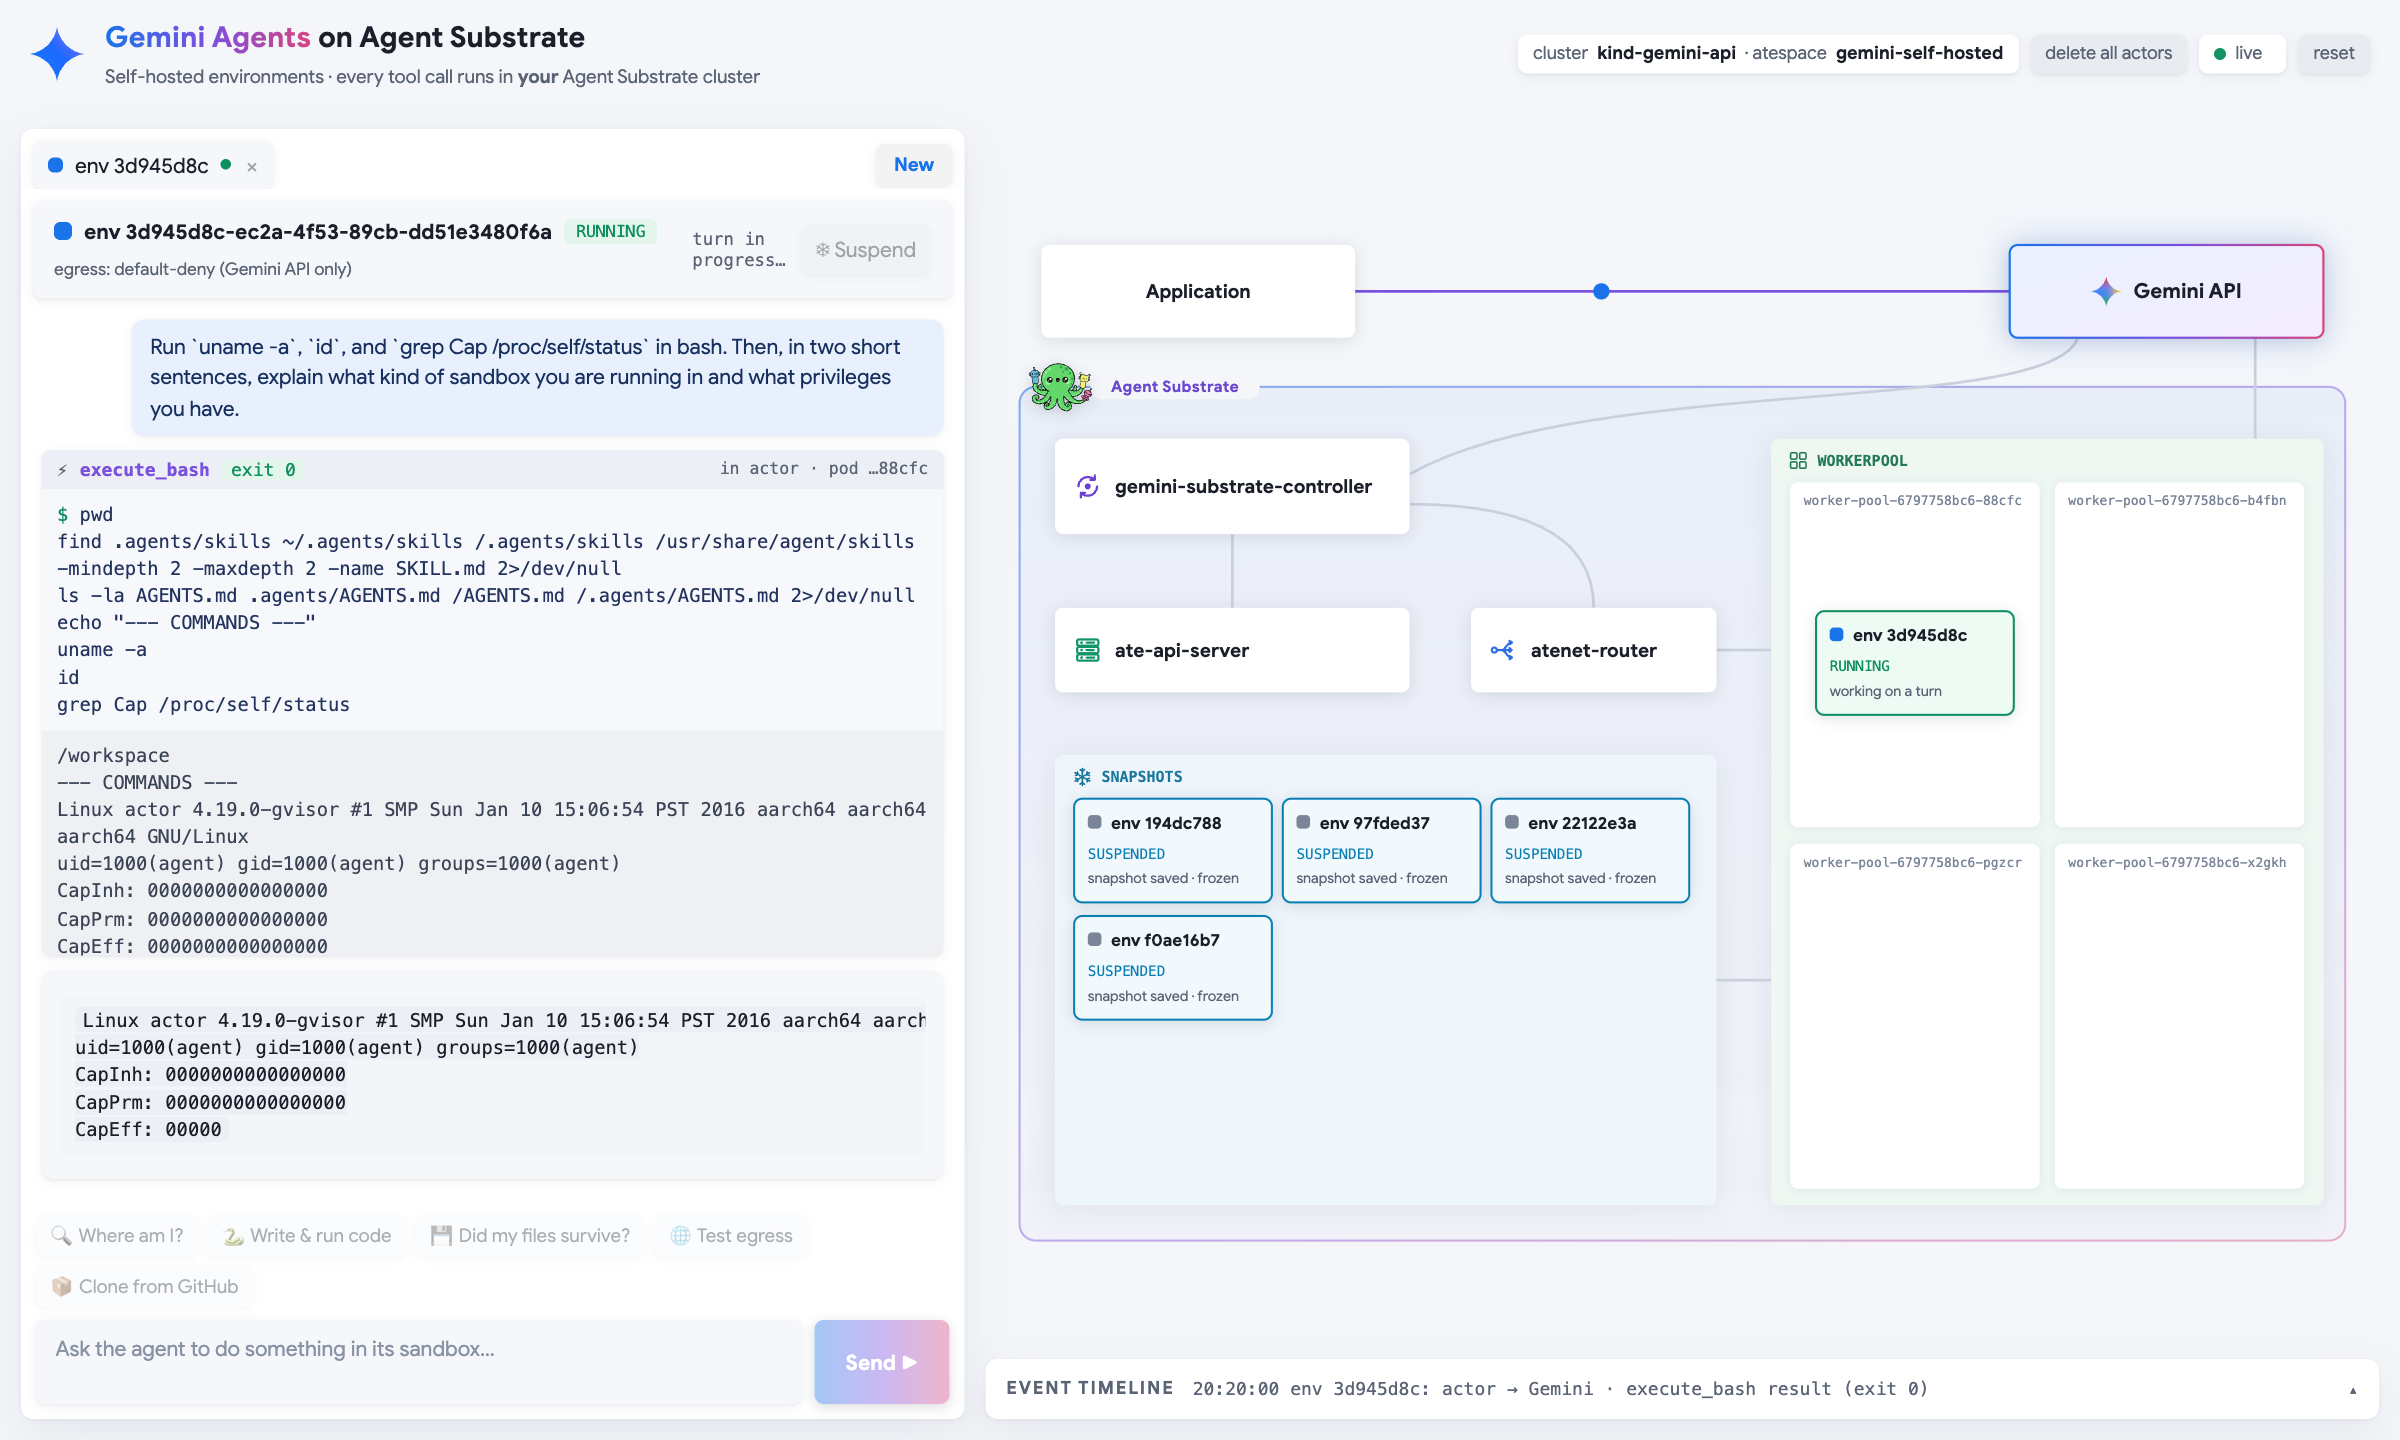
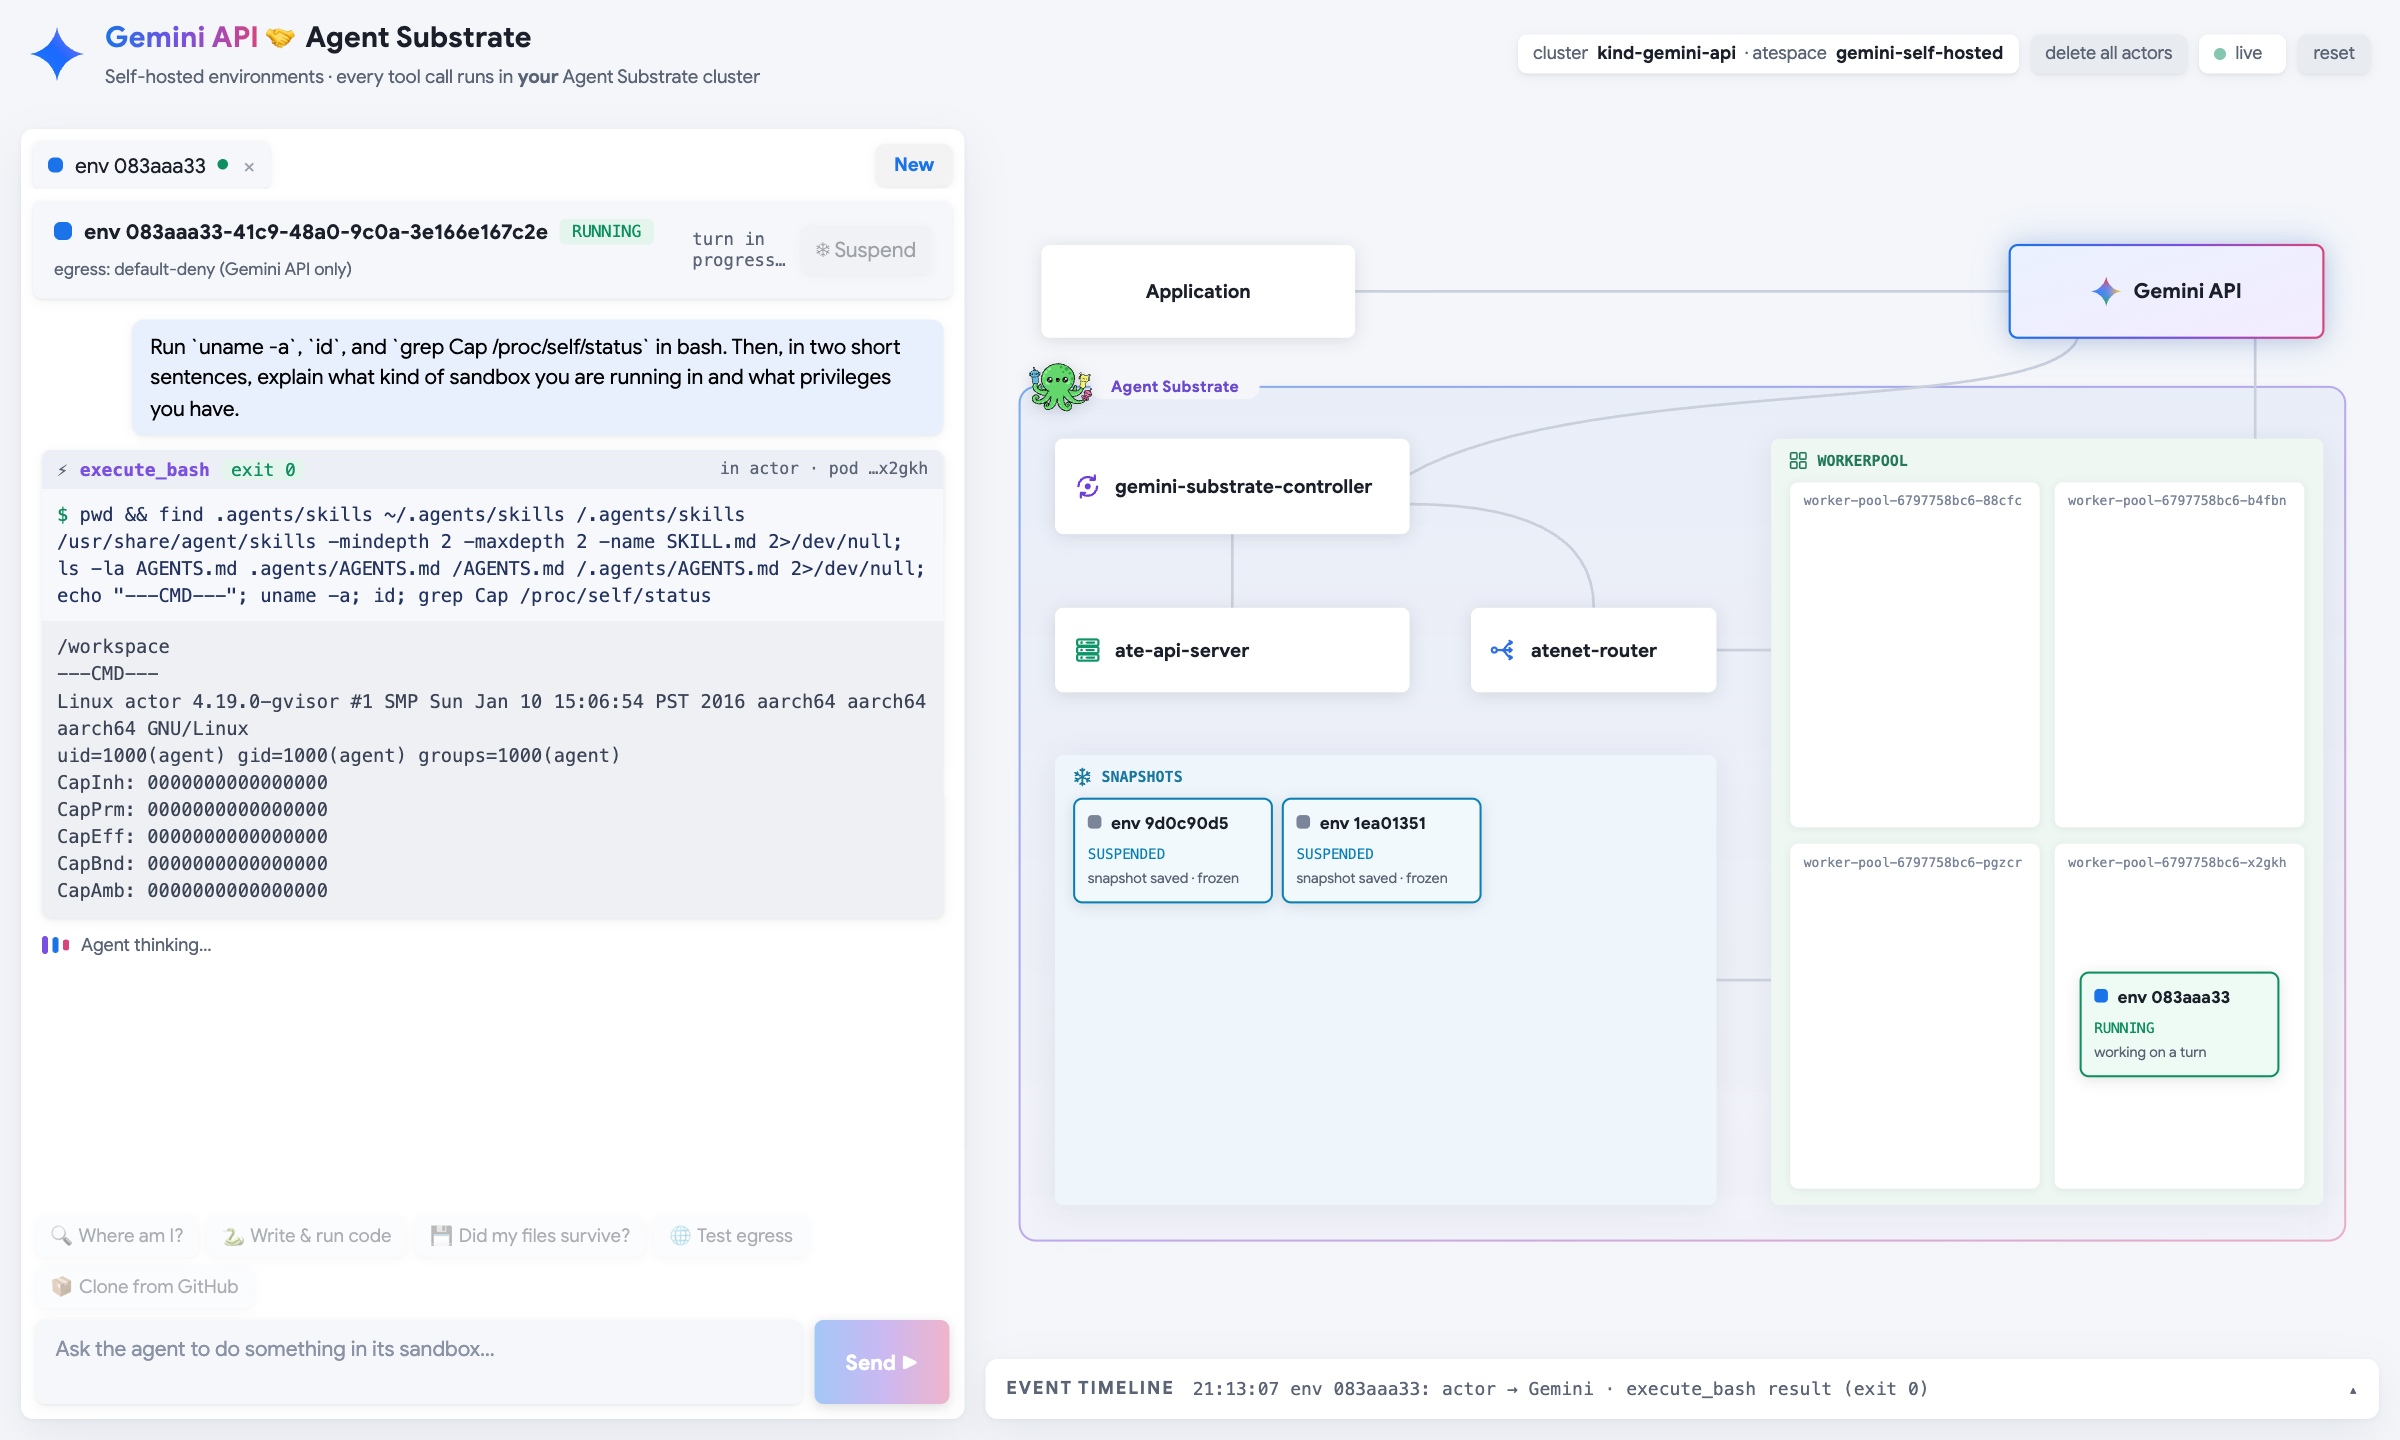
Retitle to Gemini API 🤝 Agent Substrate; refresh screenshots

diff --git a/demo/static/index.html b/demo/static/index.html
@@ -3,7 +3,7 @@
 <head>
   <meta charset="utf-8">
   <meta name="viewport" content="width=device-width, initial-scale=1">
-  <title>Gemini API Managed Agents × Agent Substrate</title>
+  <title>Gemini API 🤝 Agent Substrate</title>
   <link rel="stylesheet" href="style.css">
   <script src="app.js" defer></script>
 </head>
@@ -12,7 +12,7 @@
     <div class="brand">
       <img class="logo" src="gemini.svg" alt="Gemini" width="36" height="36">
       <div>
-        <h1><span class="grad">Gemini API Managed Agents</span> on Agent Substrate</h1>
+        <h1><span class="grad">Gemini API</span> 🤝 Agent Substrate</h1>
         <p class="subtitle">Self-hosted environments · every tool call runs in <b>your</b> Agent Substrate cluster</p>
       </div>
     </div>

diff --git a/demo/static/app.js b/demo/static/app.js
@@ -1,7 +1,7 @@
 'use strict';
 
 // ===========================================================================
-// Gemini API Managed Agents × Agent Substrate — live demo UI
+// Gemini API 🤝 Agent Substrate — live demo UI
 // All DOM is built with createElement/createElementNS + textContent (no
 // innerHTML) so model output and tool output can never inject markup.
 // ===========================================================================

diff --git a/README.md b/README.md
@@ -1,4 +1,4 @@
-# Gemini API Managed Agents on Agent Substrate
+# Gemini API 🤝 Agent Substrate
 
 A live, visual demo of **Gemini API self-hosted environments** running on
 **[Agent Substrate](https://github.com/agent-substrate/substrate)** in a local
